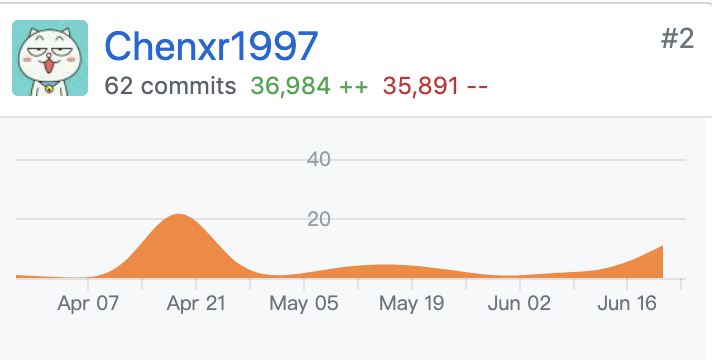
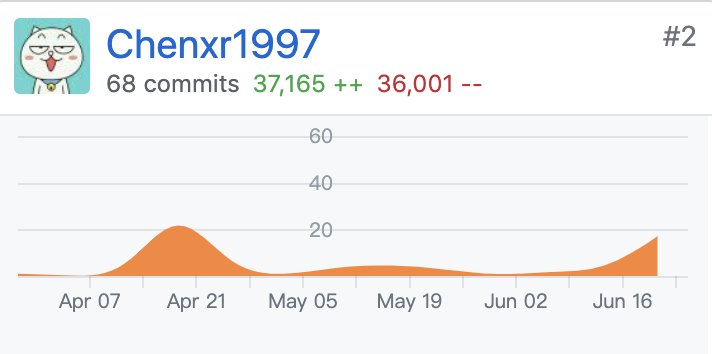
fix

diff --git a/record_documents/contribution.md b/record_documents/contribution.md
@@ -6,12 +6,12 @@
 
 | 学号     | 姓名         | 分工                                                         | 贡献率 |
 | -------- | ------------ | ------------------------------------------------------------ | ------ |
-| 16340211 | wanggh8      | 主要职责：测试，前端<br>详细贡献：前端代码编写，系统测试，测试报告编写，需求规格文档编写 | 16.7%  |
+| 16340211 | wanggh8      | 主要职责：测试，前端<br>详细贡献：前端代码编写，系统测试，测试报告编写，需求规格文档编写，成品展示制作 | 16.7%  |
 | 16340210 | wangdchao    | 主要职责：架构，前端<br>详细贡献：前端代码编写，api设计，需求规格文档编写，前端部署 | 16.7%  |
 | 16340209 | tang16340209 | 主要职责：产品，后端<br>详细贡献：项目管理，前期调研，需求分析与设计，后端代码编写，api测试，数据库设计，其他文档编写，需求规格文档编写，项目及团队介绍文档编写 | 16.7%  |
 | 16340007 | Scott-Cai    | 主要职责：架构，后端<br>详细贡献：后端代码编写，api设计，api测试，后端部署，需求规格文档编写 | 16.7%  |
 | 15331035 | 陈笑儒       | 主要职责：项目，后端<br>详细贡献：项目管理，后端代码编写，api测试，数据库设计，后端部署，需求规格文档编写，wiki编写 | 16.7%  |
-| 16341018 | ezlaor       | 主要职责：UI，前端<br>详细贡献：前端代码编写，UI设计，需求规格文档编写 | 16.7%  |
+| 16341018 | ezlaor       | 主要职责：UI，前端<br>详细贡献：前端代码编写，UI设计，需求规格文档编写，编写用户手册 | 16.7%  |
 
 ## 制品与贡献率
 
@@ -24,6 +24,8 @@
 |          | 测试报告   | 100%   |        |        |        |        |        |
 | **需求** | 前期调研   |        |        | 100%   |        |        |        |
 | **文档** | 需求规格   | 20%    |        | 30%    | 10%    | 20%    | 20%    |
+|          | 用户手册   |        |        |        |        |        | 100%   |
+|          | 成品展示   | 100%   |        |        |        |        |        |
 |          | 其他       | 10%    | 10%    | 30%    | 10%    | 30%    | 10%    |
 | **设计** | 架构设计   |        | 35%    | 10%    | 35%    | 10%    | 10%    |
 |          | UI         |        |        |        |        |        | 100%   |
@@ -64,6 +66,8 @@
 
 
 - @Chenxr1997 (Dashboard & backend)
+
+    **注：Chenxr1997有次不小心ctrl+s保存了一个网页到项目里，涉及到了34600个add和delete**
 
     <img src="contribution/Chenxr1997_dashboard.png" width="400" height="200">
 
